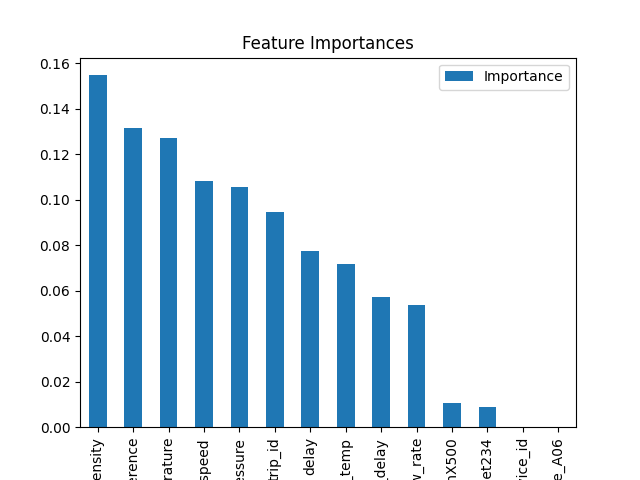
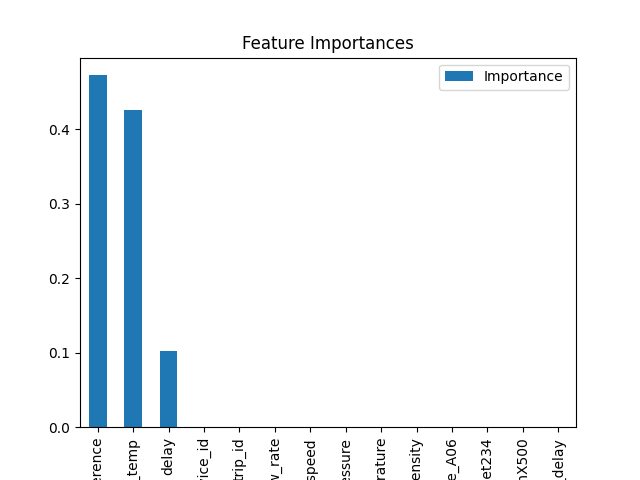
Completed model experimentation draft
Need to make data generation more rows and fix the defect model test results

diff --git a/2 Model Experimentation.py b/2 Model Experimentation.py
@@ -22,18 +22,31 @@ config = get_config(spark)
 # COMMAND ----------
 
 # MAGIC %md
-# MAGIC Now that we've explored our data and added some features in the previous notebook, let's train some models to predict defects! First, we'll import the standard SKlearn library to do our test train split
+# MAGIC Now that we've explored our data and added some features in the previous notebook, let's train some models to predict defects! First, we'll split the 
 
 # COMMAND ----------
 
-from sklearn.model_selection import train_test_split
-
 features = spark.read.table(config['silver_features']).toPandas()
-X_train, X_test, y_train, y_test = train_test_split(features.drop(["defect"], axis=1), features["defect"], random_state=1)
+features = features.sort_values(by='trip_id')
+
+train = features.iloc[:int(len(features) * 0.8)]
+test = features.iloc[int(len(features) * 0.8):]
+
+X_train = train.drop('defect', axis=1)
+X_test = test.drop('defect', axis=1)
+y_train = train['defect']
+y_test = test['defect']
 X_train.head()
 
 # COMMAND ----------
 
+# MAGIC %md
+# MAGIC # MLflow Experiments
+# MAGIC Next we'll try a few different approaches to predicting defects. In order to track the results we'll use MLflow _Experiments_. Experiments allow you to track and compare many attempts to solve a problem. Each attempt is called a _run_
+
+# COMMAND ----------
+
+import pandas as pd
 import mlflow.sklearn
 from sklearn.ensemble import RandomForestClassifier
 from sklearn.metrics import f1_score
@@ -41,9 +54,9 @@ from mlflow.models.signature import infer_signature
 import uuid
 import matplotlib.pyplot as plt
 
-model_name = "random_forest_" + str(uuid.uuid1())[:5] # generate a unique name for your mlflow model
+model_name = f"rf_{config['model_name']}"
 
-with mlflow.start_run(run_name='First RF Run') as run:
+with mlflow.start_run(run_name='First Run RF') as run:
     # Create model, train it, and create predictions
     rf = RandomForestClassifier(n_estimators=100, random_state=42)
     rf.fit(X_train, y_train)
@@ -55,7 +68,7 @@ with mlflow.start_run(run_name='First RF Run') as run:
 
     # Log metrics
     f1 = f1_score(y_test, predictions)
-    mlflow.log_metric('f1', f1)
+    mlflow.log_metric('f1', f1) #TODO: make the results less stupid
 
     # Log feature importances plot
     importance = (pd.DataFrame(list(zip(X_train.columns, rf.feature_importances_)), columns=["Feature", "Importance"])
@@ -67,9 +80,101 @@ with mlflow.start_run(run_name='First RF Run') as run:
     plt.close(fig)
     mlflow.log_figure(fig, "feature_importances.png")
 
-    run_id = run.info.run_id
-    experiment_id = run.info.experiment_id
-    print(f"Inside MLflow Run with run_id `{run_id}` and experiment_id `{experiment_id}`")
+# COMMAND ----------
+
+# MAGIC %md
+# MAGIC You can view the experiment by selecting the beaker icon on the right side of the screen, or choosing "Experiments" from the left menu and selecting your experiment that matches the name of this notebook. Try clicking around to see where the model information resides, how to make charts of the information logged, and where the artifacts such as the feature importance chart can be accessed. Looking at the metrics that were logged it seems like the low proportion of defects may have thrown off our model. Let's upsample our training data before training the next one. Be careful to avoid data leakage when doing this!
+
+# COMMAND ----------
+
+features_majority = train[train['defect']!=1]
+features_minority = train[train['defect']==1]
+features_upsample = resample(features_minority, replace=True, n_samples=len(features_majority))
+
+train_upsampled = pd.concat([features_majority, features_upsample])
+X_train_upsampled = train_upsampled.drop('defect', axis=1)
+y_train_upsampled = train_upsampled['defect']
+
+# COMMAND ----------
+
+from sklearn.tree import DecisionTreeClassifier
+from sklearn.utils import resample
+
+
+model_name = f"tree_{config['model_name']}"
+
+with mlflow.start_run(run_name='Second Run Tree') as run:
+    # Create model, train it, and create predictions
+    tree = DecisionTreeClassifier()
+    tree.fit(X_train_upsampled, y_train_upsampled)
+    predictions = tree.predict(X_test)
+
+    # Log model with signature
+    signature = infer_signature(X_train, predictions)
+    mlflow.sklearn.log_model(tree, model_name, signature=signature)
+    mlflow.log_param('upsampled', 'true')
+
+    # Log metrics
+    f1 = f1_score(y_test, predictions)
+    mlflow.log_metric('f1', f1)
+
+    # Log feature importances plot
+    importance = (pd.DataFrame(list(zip(X_train.columns, tree.feature_importances_)), columns=["Feature", "Importance"])
+                  .sort_values("Importance", ascending=False))
+    fig, ax = plt.subplots()
+    importance.plot.bar(x='Feature', ax=ax)
+    plt.title("Feature Importances")
+    plt.savefig("feature_importances.png")  # Save the figure to a file
+    plt.close(fig)
+    mlflow.log_figure(fig, "feature_importances.png")
+
+# COMMAND ----------
+
+# MAGIC %md
+# MAGIC To skip adding code to explicitly log your models, try MLflow's autolog() capability
+
+# COMMAND ----------
+
+from sklearn.linear_model import LogisticRegression
+
+model_name = f"lr_{config['model_name']}"
+mlflow.sklearn.autolog() # Autolog adds the important information to the run for us
+
+with mlflow.start_run(run_name='Third Run LR') as run:
+    # Create model, train it, and create predictions. Defer logging to autolog() apart from our f1 metric for comparison
+    lr = LogisticRegression()
+    lr.fit(X_train, y_train)
+    predictions = lr.predict(X_test)
+    f1 = f1_score(y_test, predictions)
+    mlflow.log_metric('f1', f1)
+
+# COMMAND ----------
+
+# MAGIC %md
+# MAGIC Now that we've had a chance to compare three models, let's determine the best one and add it to the model registry for downstream use
+
+# COMMAND ----------
+
+from mlflow.tracking import MlflowClient
+client = MlflowClient()
+
+# COMMAND ----------
+
+model_uri = f"runs:/{run.info.run_id}/model"
+model_details = mlflow.register_model(model_uri=model_uri, name=model_name)
+
+# COMMAND ----------
+
+# MAGIC %md
+# MAGIC Once we feel confident, we can change the stage to Staging or Production so downstream consumers can use it
+
+# COMMAND ----------
+
+client.transition_model_version_stage(
+    name=model_details.name,
+    version=model_details.version,
+    stage="Production"
+)
 
 # COMMAND ----------
 

diff --git a/1 Data Exploration.py b/1 Data Exploration.py
@@ -65,10 +65,8 @@ print(pandas_bronze.isnull().sum())
 
 encoded_factory = pd.get_dummies(pandas_bronze['factory_id'], prefix='ohe')
 encoded_model = pd.get_dummies(pandas_bronze['model_id'], prefix='ohe')
-df_encoded = pd.concat([pandas_bronze.drop('factory_id', axis=1).drop('model_id', axis=1), encoded_factory, encoded_model], axis=1
-                       ).drop('timestamp', axis=1)
-df_encoded = df_encoded.fillna(method='ffill')
-df_encoded = df_encoded.fillna(0)
+features = pd.concat([pandas_bronze.drop('factory_id', axis=1).drop('model_id', axis=1), encoded_factory, encoded_model], axis=1)
+features = features.drop('timestamp', axis=1)
 
 # COMMAND ----------
 
@@ -79,8 +77,9 @@ df_encoded = df_encoded.fillna(0)
 
 # COMMAND ----------
 
-pandas_bronze['rolling_mean_delay'] = pandas_bronze['delay'].shift(1).ewm(span=12).mean()
-pandas_bronze.display()
+features = features.sort_values(by='trip_id')
+features['rolling_mean_delay'] = features['delay'].shift(1).ewm(span=12).mean()
+features.display()
 
 # COMMAND ----------
 
@@ -91,14 +90,24 @@ pandas_bronze.display()
 
 # COMMAND ----------
 
-pandas_bronze['rolling_mean_temp'] = pandas_bronze['temperature'].shift(1).ewm(5).mean()
-pandas_bronze['temp_difference'] = pandas_bronze['rolling_mean_temp'] - pandas_bronze['temperature']
-pandas_bronze.display()
+features['rolling_mean_temp'] = features['temperature'].shift(1).ewm(5).mean()
+features['temp_difference'] = features['rolling_mean_temp'] - features['temperature']
+features.display()
+
+# COMMAND ----------
+
+# MAGIC %md
+# MAGIC Finally, we'll forward fill null values or replace with zeros where necessary before writing the results to our feature table
+
+# COMMAND ----------
+
+features = features.fillna(method='ffill')
+features = features.fillna(0)
 
 # COMMAND ----------
 
 # DBTITLE 1,Save Features to Table
-spark.createDataFrame(pandas_bronze).write.saveAsTable(config['silver_features'])
+spark.createDataFrame(features).write.mode('overwrite').saveAsTable(config['silver_features'])
 
 # COMMAND ----------
 

diff --git a/utils/onboarding_setup/onboarding_setup.py b/utils/onboarding_setup/onboarding_setup.py
@@ -16,7 +16,7 @@ def get_config(spark):
       'csv_staging' : f'/{current_user}_onboarding/csv_staging',
       'checkpoint_location' : f'/{current_user}_onboarding/sensor_checkpoints',
       'rows_per_run' : num_rows,
-      'model_name' : 'iot_streaming_model'
+      'model_name' : f'device_defect_{current_user}'
   }
 
 def reset_tables(spark, config, dbutils):

diff --git a/3 Model Inference.py b/3 Model Inference.py
@@ -1,0 +1,8 @@
+# Databricks notebook source
+# MAGIC %md
+# MAGIC ### 3. MLflow Model Inference
+# MAGIC 3.1 Batch Inference
+# MAGIC
+# MAGIC 3.2 Streaming inference
+# MAGIC
+# MAGIC Note on real time and edge deployments
